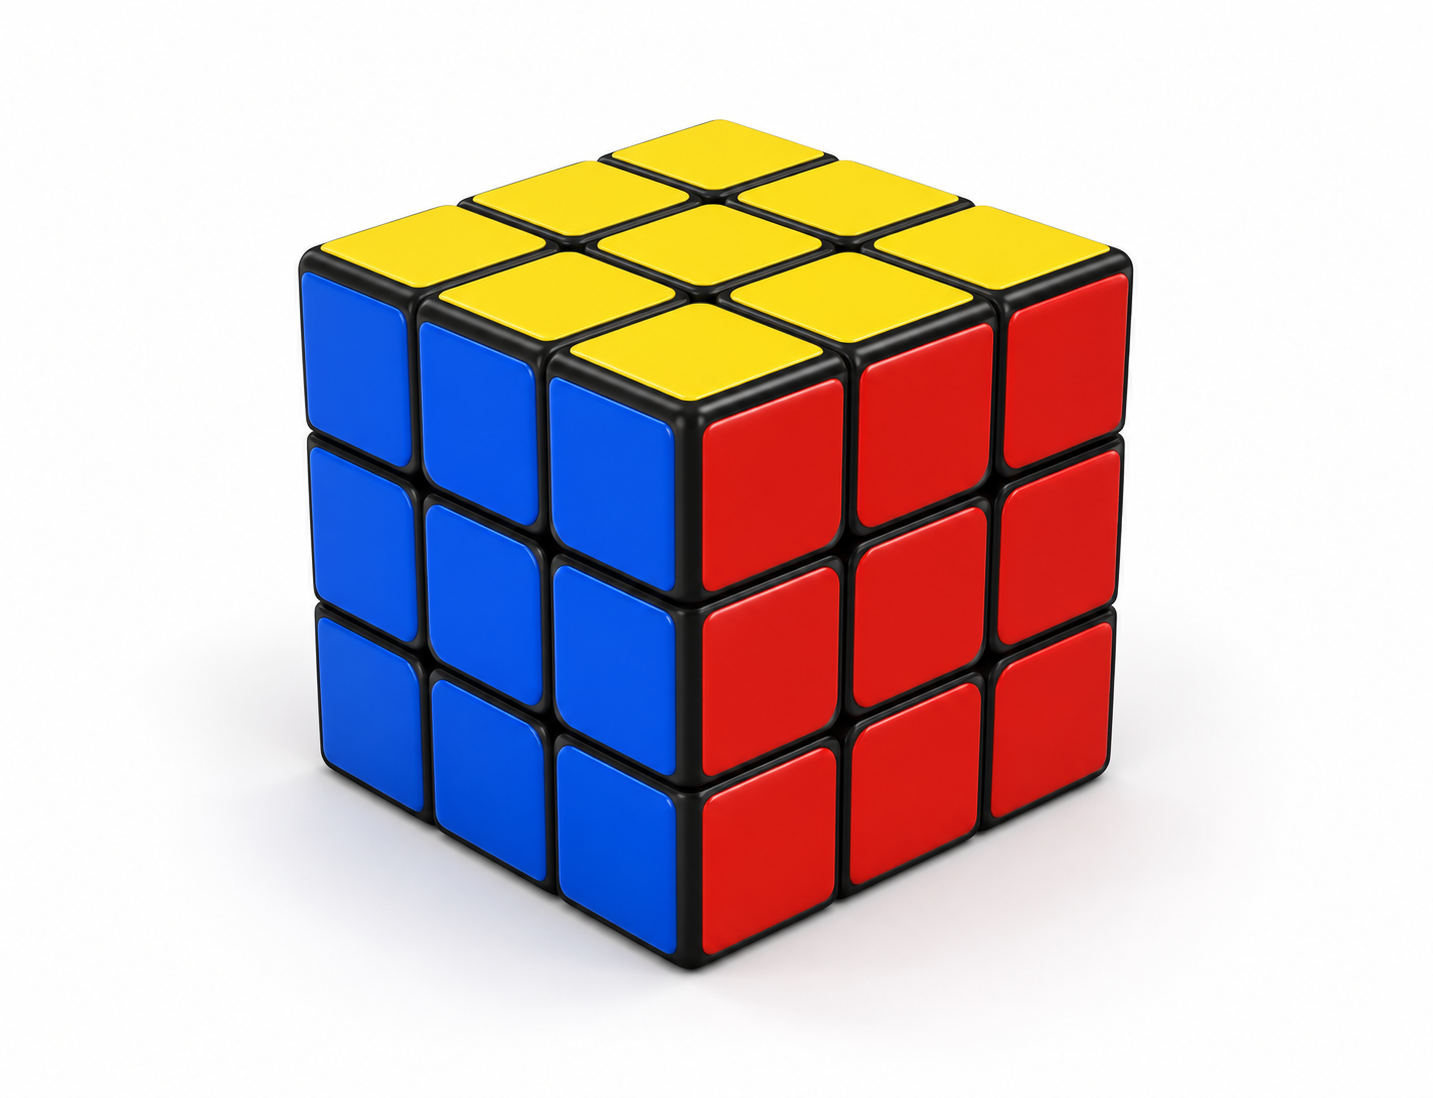
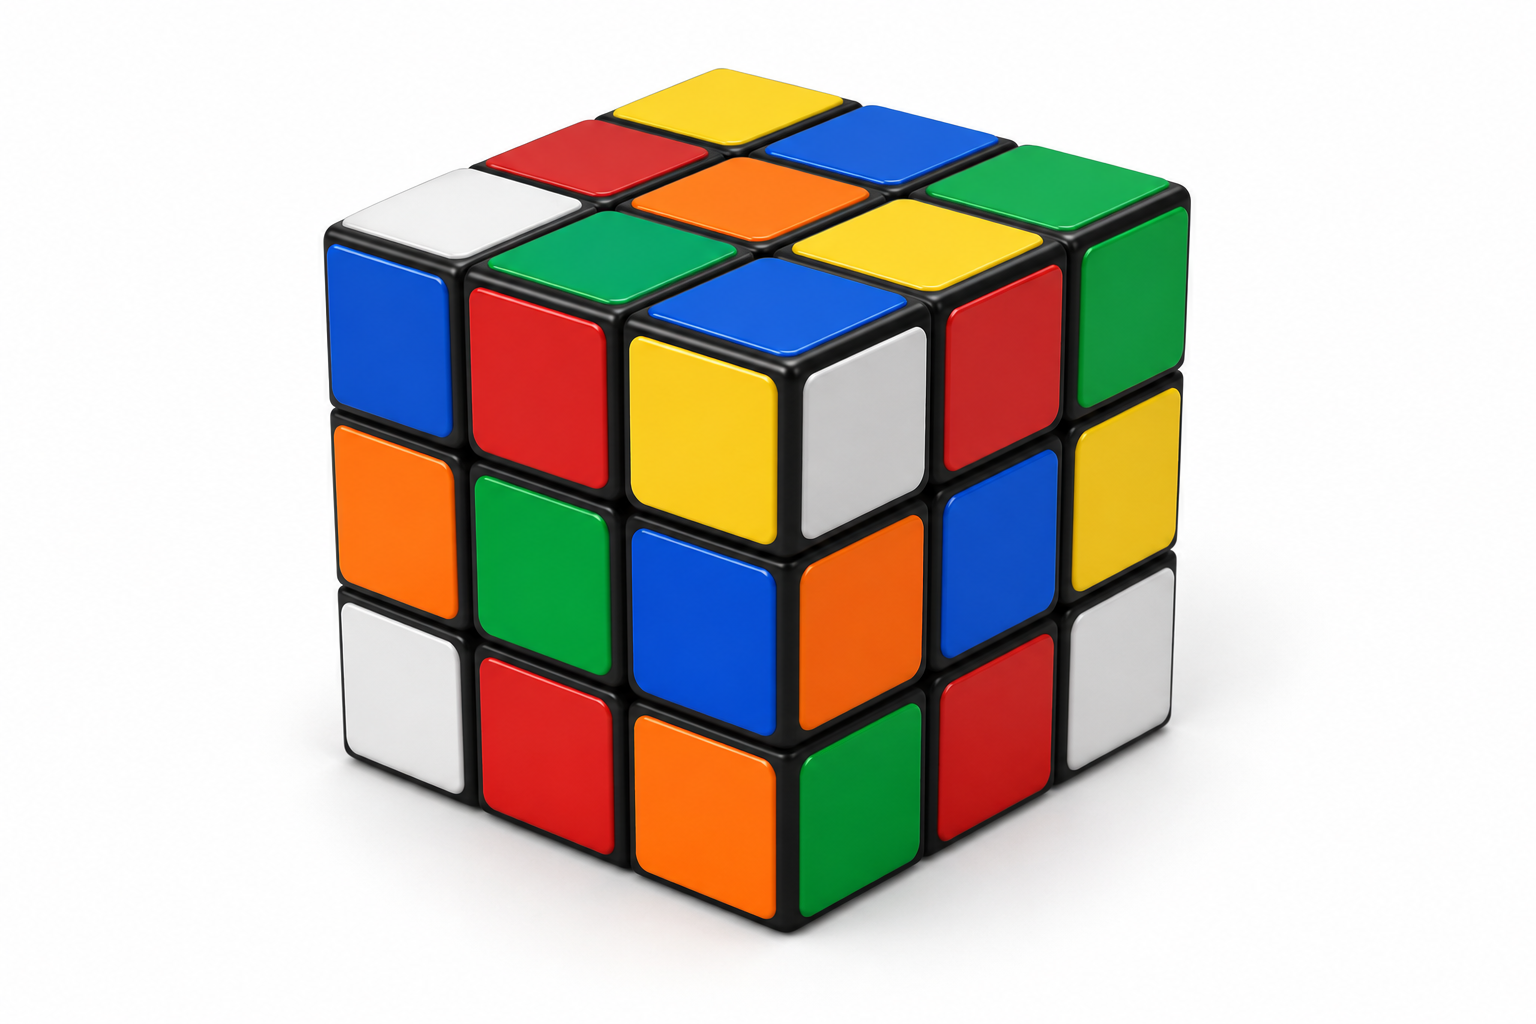
Polish project image cards

diff --git a/assets/css/theme-b.css b/assets/css/theme-b.css
@@ -1,6 +1,6 @@
 /* Selected design B: cool white and slate, shared by both languages. */
 
-:root, :root[data-theme="light"] { --shadow:none; --shadow-soft:none; }
+:root, :root[data-theme="light"] { --shadow:none; --shadow-soft:none; --progress-thickness:2px; }
 body { background:var(--paper); -webkit-font-smoothing:antialiased; }
 .nav-wrap { box-shadow:none; backdrop-filter:none; background:var(--paper); min-height:76px; padding-inline:max(32px,calc((100vw - 1160px)/2)); }
 body { padding-top:76px; }
@@ -134,7 +134,7 @@ html.theme-transition body *::after {
   bottom:-1px;
   left:0;
   z-index:2;
-  height:2px;
+  height:var(--progress-thickness);
   background:var(--blue);
   opacity:.9;
   pointer-events:none;
@@ -169,29 +169,24 @@ html.theme-transition body *::after {
 .cv-hero { padding:32px; gap:28px; }
 .cv-contact-line { flex-wrap:wrap; }
 .projects-page .entry {
-  display:grid;
-  grid-template-columns:calc(50% - 14px) calc(50% - 14px);
-  grid-template-areas:
-    "header media"
-    "organization media"
-    "details media";
-  align-items:start;
-  column-gap:28px;
+  display:block;
+  min-height:240px;
   margin:0 0 22px;
-  padding:24px;
+  padding:24px calc(50% + 12px) 24px 24px;
   border:1px solid var(--line);
   border-radius:3px;
   background:var(--paper);
+  overflow:hidden;
 }
 .projects-page .entry:last-child { padding-bottom:24px; }
 .projects-page .entry::before { display:none; }
 .projects-page .entry:hover {
   border-color:var(--blue);
   background:var(--paper);
+  box-shadow:inset 0 0 0 calc(var(--progress-thickness) - 1px) var(--blue);
   transform:none;
 }
 .projects-page .entry-header {
-  grid-area:header;
   display:grid;
   grid-template-columns:minmax(0, 1fr) auto;
   align-items:start;
@@ -210,25 +205,36 @@ html.theme-transition body *::after {
   align-self:start;
   white-space:nowrap;
 }
-.projects-page .organization { grid-area:organization; }
 .projects-page .entry > ul {
-  grid-area:details;
   min-width:0;
   margin-bottom:0;
 }
 .project-entry-media {
-  grid-area:media;
-  align-self:center;
-  justify-self:stretch;
-  width:100%;
-  height:190px;
+  position:absolute;
+  top:0;
+  right:0;
+  bottom:0;
+  width:50%;
+  height:auto;
   overflow:hidden;
-  border:1px solid var(--line);
-  border-radius:2px;
+  border:0;
+  border-left:1px solid var(--line);
+  border-radius:0 2px 2px 0;
   background:var(--wash);
 }
 .project-entry-media--image {
   background:#fff;
+}
+.project-entry-media--image::before {
+  content:"";
+  position:absolute;
+  z-index:1;
+  top:0;
+  bottom:0;
+  left:0;
+  width:10%;
+  background:linear-gradient(90deg,rgba(255,255,255,.92),rgba(255,255,255,.52) 42%,rgba(255,255,255,0));
+  pointer-events:none;
 }
 .project-entry-media--image img {
   display:block;
@@ -258,18 +264,17 @@ html.theme-transition body *::after {
   .cv-hero .page-title { font-size:30px; }
   .cv-skill-group h3 { font-size:18px; }
   .projects-page .entry {
-    grid-template-columns:1fr;
-    grid-template-areas:
-      "header"
-      "organization"
-      "details"
-      "media";
+    min-height:0;
     padding:20px;
   }
   .project-entry-media {
-    justify-self:start;
+    position:relative;
+    inset:auto;
+    width:100%;
     height:160px;
     margin-top:18px;
+    border:1px solid var(--line);
+    border-radius:2px;
   }
   .projects-page .entry-title,
   .projects-page .organization,
@@ -278,6 +283,7 @@ html.theme-transition body *::after {
   }
   .project-entry-media--image,
   .project-entry-media--placeholder { width:100%; }
+  .project-entry-media--image::before { display:none; }
 }
 @media (max-width:720px) {
   body { padding-top:62px; }

diff --git a/en/cv/index.html b/en/cv/index.html
@@ -22,7 +22,7 @@
     })();
   </script>
   <link rel="stylesheet" href="/assets/css/style.css?v=20260926-layout">
-  <link rel="stylesheet" href="/assets/css/theme-b.css?v=20260926-b7">
+  <link rel="stylesheet" href="/assets/css/theme-b.css?v=20260926-b8">
 </head>
 <body class="english-page cv-page">
   <header class="site-header"><div class="nav-wrap"><a class="brand" href="/en/">Eric Ye</a><button class="hamburger" aria-label="Menu" aria-expanded="false"><span></span><span></span><span></span></button><nav class="nav" aria-label="Main navigation"><a href="/en/">Home</a><a class="active" href="/en/cv/">CV</a><a href="/en/projects/">Projects</a><a href="/en/publications/">Publications</a><a href="/en/gallery/">Gallery</a></nav><div class="language-switch" aria-label="Language"><a href="/cv/" lang="zh-CN" hreflang="zh-CN">CH</a><span aria-hidden="true">/</span><span class="active" aria-current="page">EN</span></div><button class="theme-toggle" aria-label="Toggle theme"><svg class="icon-sun" viewBox="0 0 24 24"><circle cx="12" cy="12" r="5"/><line x1="12" y1="1" x2="12" y2="3"/><line x1="12" y1="21" x2="12" y2="23"/><line x1="4.22" y1="4.22" x2="5.64" y2="5.64"/><line x1="18.36" y1="18.36" x2="19.78" y2="19.78"/><line x1="1" y1="12" x2="3" y2="12"/><line x1="21" y1="12" x2="23" y2="12"/><line x1="4.22" y1="19.78" x2="5.64" y2="18.36"/><line x1="18.36" y1="5.64" x2="19.78" y2="4.22"/></svg><svg class="icon-moon" viewBox="0 0 24 24" style="display:none"><path d="M21 12.79A9 9 0 1 1 11.21 3 7 7 0 0 0 21 12.79z"/></svg></button></div></header>

diff --git a/en/gallery/index.html b/en/gallery/index.html
@@ -19,7 +19,7 @@
     })();
   </script>
   <link rel="stylesheet" href="/assets/css/style.css?v=20260926-layout">
-  <link rel="stylesheet" href="/assets/css/theme-b.css?v=20260926-b7">
+  <link rel="stylesheet" href="/assets/css/theme-b.css?v=20260926-b8">
 </head>
 <body class="english-page">
   <header class="site-header"><div class="nav-wrap"><a class="brand" href="/en/">Eric Ye</a><button class="hamburger" aria-label="Menu" aria-expanded="false"><span></span><span></span><span></span></button><nav class="nav" aria-label="Main navigation"><a href="/en/">Home</a><a href="/en/cv/">CV</a><a href="/en/projects/">Projects</a><a href="/en/publications/">Publications</a><a class="active" href="/en/gallery/">Gallery</a></nav><div class="language-switch" aria-label="Language"><a href="/gallery/" lang="zh-CN" hreflang="zh-CN">CH</a><span aria-hidden="true">/</span><span class="active" aria-current="page">EN</span></div><button class="theme-toggle" aria-label="Toggle theme"><svg class="icon-sun" viewBox="0 0 24 24"><circle cx="12" cy="12" r="5"/><line x1="12" y1="1" x2="12" y2="3"/><line x1="12" y1="21" x2="12" y2="23"/><line x1="4.22" y1="4.22" x2="5.64" y2="5.64"/><line x1="18.36" y1="18.36" x2="19.78" y2="19.78"/><line x1="1" y1="12" x2="3" y2="12"/><line x1="21" y1="12" x2="23" y2="12"/><line x1="4.22" y1="19.78" x2="5.64" y2="18.36"/><line x1="18.36" y1="5.64" x2="19.78" y2="4.22"/></svg><svg class="icon-moon" viewBox="0 0 24 24" style="display:none"><path d="M21 12.79A9 9 0 1 1 11.21 3 7 7 0 0 0 21 12.79z"/></svg></button></div></header>

diff --git a/en/projects/index.html b/en/projects/index.html
@@ -24,7 +24,7 @@
     })();
   </script>
   <link rel="stylesheet" href="/assets/css/style.css?v=20260926-layout">
-  <link rel="stylesheet" href="/assets/css/theme-b.css?v=20260926-b7">
+  <link rel="stylesheet" href="/assets/css/theme-b.css?v=20260926-b8">
 </head>
 
 <body class="english-page projects-page">
@@ -133,7 +133,7 @@
             <li>Repository: <a class="text-link" href="https://github.com/EricYXZ/3D-Magic-Cube" target="_blank" rel="noopener noreferrer">GitHub - 3D-Magic-Cube</a></li>
           </ul>
           <div class="project-entry-media project-entry-media--image">
-            <img src="/assets/img/projects/3d-magic-cube.png" alt="Three-dimensional cube render on a white background" width="1433" height="1098" loading="lazy">
+            <img src="/assets/img/projects/3d-magic-cube.png" alt="Scrambled three-dimensional cube render on a white background" width="1536" height="1024" loading="lazy">
           </div>
         </div>
       </section>

diff --git a/projects/index.html b/projects/index.html
@@ -22,7 +22,7 @@
     })();
   </script>
   <link rel="stylesheet" href="/assets/css/style.css?v=20260926-layout">
-  <link rel="stylesheet" href="/assets/css/theme-b.css?v=20260926-b7">
+  <link rel="stylesheet" href="/assets/css/theme-b.css?v=20260926-b8">
 </head>
 
 <body class="projects-page">
@@ -150,7 +150,7 @@
             <li>项目仓库：<a class="text-link" href="https://github.com/EricYXZ/3D-Magic-Cube" target="_blank" rel="noopener noreferrer">GitHub - 3D-Magic-Cube</a></li>
           </ul>
           <div class="project-entry-media project-entry-media--image">
-            <img src="/assets/img/projects/3d-magic-cube.png" alt="白色背景下的三维魔方渲染图" width="1433" height="1098" loading="lazy">
+            <img src="/assets/img/projects/3d-magic-cube.png" alt="白色背景下打乱状态的三维魔方渲染图" width="1536" height="1024" loading="lazy">
           </div>
         </div>
 

diff --git a/en/publications/index.html b/en/publications/index.html
@@ -24,7 +24,7 @@
     })();
   </script>
   <link rel="stylesheet" href="/assets/css/style.css?v=20260926-layout">
-  <link rel="stylesheet" href="/assets/css/theme-b.css?v=20260926-b7">
+  <link rel="stylesheet" href="/assets/css/theme-b.css?v=20260926-b8">
 </head>
 <body class="english-page">
   <header class="site-header">

diff --git a/cv/index.html b/cv/index.html
@@ -22,7 +22,7 @@
     })();
   </script>
   <link rel="stylesheet" href="/assets/css/style.css?v=20260926-layout">
-  <link rel="stylesheet" href="/assets/css/theme-b.css?v=20260926-b7">
+  <link rel="stylesheet" href="/assets/css/theme-b.css?v=20260926-b8">
 </head>
 <body class="cv-page">
   <header class="site-header">

diff --git a/publications/index.html b/publications/index.html
@@ -23,7 +23,7 @@
     })();
   </script>
   <link rel="stylesheet" href="/assets/css/style.css?v=20260926-layout">
-  <link rel="stylesheet" href="/assets/css/theme-b.css?v=20260926-b7">
+  <link rel="stylesheet" href="/assets/css/theme-b.css?v=20260926-b8">
 </head>
 <body>
   <header class="site-header">

diff --git a/en/index.html b/en/index.html
@@ -33,7 +33,7 @@
     })();
   </script>
   <link rel="stylesheet" href="/assets/css/style.css?v=20260926-layout">
-  <link rel="stylesheet" href="/assets/css/theme-b.css?v=20260926-b7">
+  <link rel="stylesheet" href="/assets/css/theme-b.css?v=20260926-b8">
 </head>
 
 <body class="english-home">

diff --git a/gallery/index.html b/gallery/index.html
@@ -22,7 +22,7 @@
     })();
   </script>
   <link rel="stylesheet" href="/assets/css/style.css?v=20260926-layout">
-  <link rel="stylesheet" href="/assets/css/theme-b.css?v=20260926-b7">
+  <link rel="stylesheet" href="/assets/css/theme-b.css?v=20260926-b8">
 </head>
 
 <body>

diff --git a/index.html b/index.html
@@ -36,7 +36,7 @@
     })();
   </script>
   <link rel="stylesheet" href="/assets/css/style.css?v=20260926-layout">
-  <link rel="stylesheet" href="/assets/css/theme-b.css?v=20260926-b7">
+  <link rel="stylesheet" href="/assets/css/theme-b.css?v=20260926-b8">
 </head>
 
 <body>
